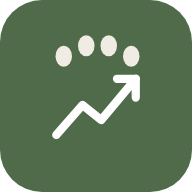
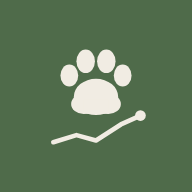
앱 아이콘을 오래곁에 새 아이콘(초록 바탕 발자국)으로 바꾸고 홈 화면용 아이콘 추가
Claude-Session: https://claude.ai/code/session_01N2fPfu9SgN3i3gnrs21NMC

diff --git a/public/sw.js b/public/sw.js
@@ -1,6 +1,6 @@
 // 오프라인에서도 열리도록 앱 파일을 저장. 배포 때마다 __BUILD__ 가 바뀌어 새 버전을 받음.
-const CACHE = "dangnyang-__BUILD__";
-const FILES = ["/", "/index.html", "/app.js", "/style.css", "/manifest.webmanifest", "/icon.svg", "/icon-192.png", "/icon-512.png"];
+const CACHE = "oraegyeote-__BUILD__";
+const FILES = ["/", "/index.html", "/app.js", "/style.css", "/manifest.webmanifest", "/icon.svg", "/icon-192.png", "/icon-512.png", "/apple-touch-icon.png"];
 self.addEventListener("install", (e) => { e.waitUntil(caches.open(CACHE).then((c) => c.addAll(FILES)).then(() => self.skipWaiting())); });
 self.addEventListener("activate", (e) => { e.waitUntil(caches.keys().then((ks) => Promise.all(ks.filter((k) => k !== CACHE).map((k) => caches.delete(k)))).then(() => self.clients.claim())); });
 self.addEventListener("fetch", (e) => {

diff --git a/public/index.html b/public/index.html
@@ -7,8 +7,8 @@
 <meta name="description" content="강아지·고양이 산책, 밥, 약, 체중, 접종을 가족이 함께 기록하고 병원 갈 때 한 장으로 보여 주는 앱">
 <meta name="theme-color" content="#F1ECE3">
 <link rel="manifest" href="/manifest.webmanifest">
-<link rel="icon" href="/icon.svg" type="image/svg+xml">
-<link rel="apple-touch-icon" href="/icon-192.png">
+<link rel="icon" href="/icon.svg?v=2" type="image/svg+xml">
+<link rel="apple-touch-icon" href="/apple-touch-icon.png?v=2">
 <meta name="apple-mobile-web-app-capable" content="yes">
 <meta name="apple-mobile-web-app-title" content="오래곁에">
 <link rel="preconnect" href="https://fonts.googleapis.com">

diff --git a/public/app.js b/public/app.js
@@ -1,4 +1,4 @@
-// 댕냥차트 1차 버전: 로그인 없이 이 기기(localStorage)에 저장. 가족 공유는 다음 단계에서 서버 저장으로 추가.
+// 오래곁에 1차 버전: 로그인 없이 이 기기(localStorage)에 저장. 가족 공유는 다음 단계에서 서버 저장으로 추가.
 (function () {
   "use strict";
   const DAY = 864e5;
